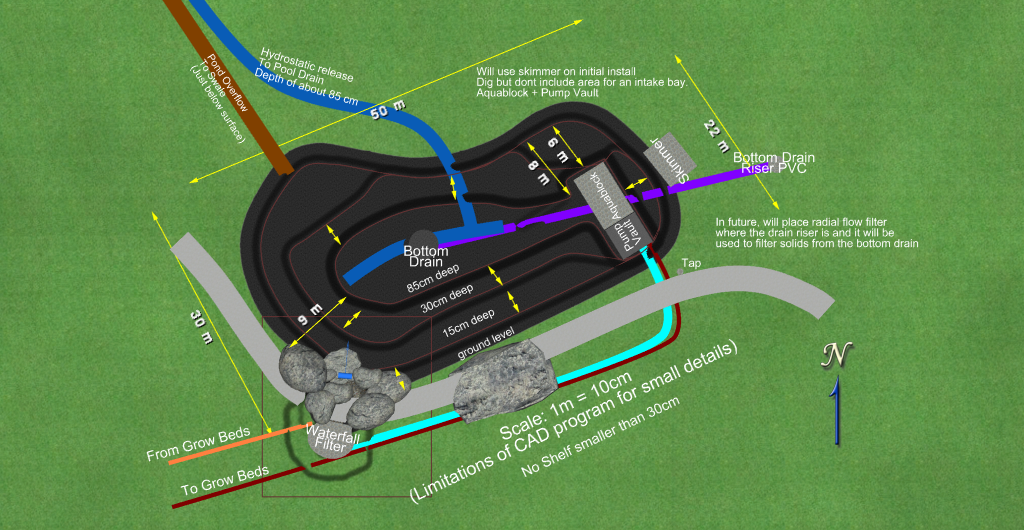
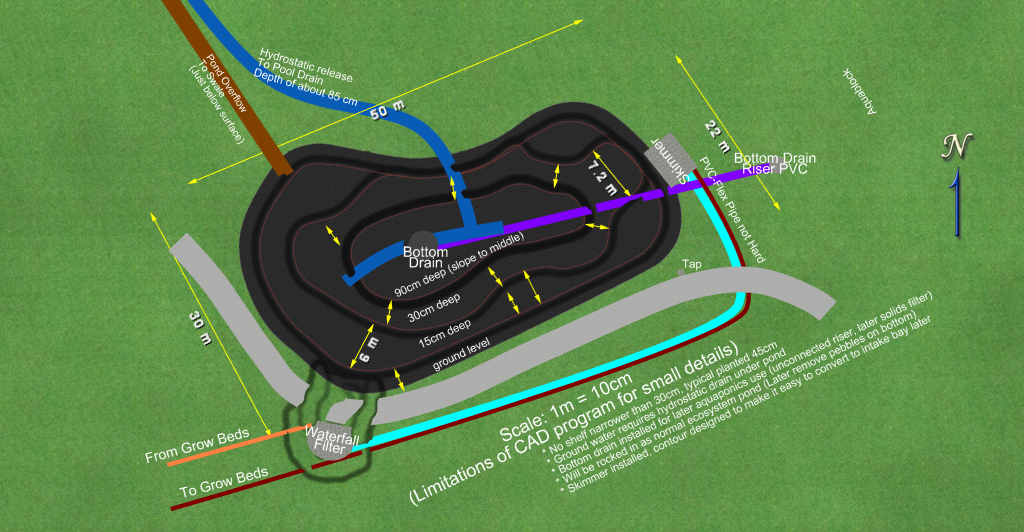
Added improved shelves design

diff --git a/pond/ponds.md b/pond/ponds.md
@@ -11,6 +11,7 @@ Over time I expect I will add many different sub-pages to this document.
 
 ![version_3/topdown.png](version_3/topdown.png)
 
+
 # Big question to answer early (Pond position)
 
 I have narrowed down to two main design options that have a big impact on the structure of the overall backyard. It is about where to place the retaining wall and pond. This decision needs to be made early, can't be changed later and has a big impact on everything else.
@@ -157,9 +158,12 @@ In contrast to koi builds, there appears to be a more recent movement of what I 
 
 ## Mehanical surface filtration
 
-My choice: Intake bay
+The most common option by far is installing a skimmer box and is on most pond builds I have seen.
 
-The most common option by far is installing skimmer box and is on most pond builds I have seen.
+My first choice would be an intake-bay because it reduces risk of killing animals in the pond, but also my initial thought is that they are simpler to clean/maintain evey week. However there are some significant complexities with installing a intake bay in my pond. As a result I am going to start with a typical skimmer box. 
+
+I also have an idea I plan to try to convert a skimmer box into a intake bay using a 3D printed adapter to replace the flapper that insteads draws the gravity fed intake from an aquablock under the rocks just in front of the skimmer. This may have some issues (like limited flow of water causing the pump to run dry), but I will give it a shot sometime after getting a working pond and see how it turns out.
+
 
 Options include:
 
@@ -171,9 +175,10 @@ Options include:
 	- Can suck in small animals and kill them (not great for ecosystem ponds with frogs, turtles etc)
 	
 * Intake bay (Seen only a few of these)
-	+ Look amazing, they looks very natural
+	+ Look amazing, they look very natural you cant see them at all
 	+ Regular maintainence (maybe weekly) uses a rake to take out debri instead of pulling out baskets (Yearly maybe cleaning out rocks?)
 	- Not seen a lot on these, I like the concept, do they work well I dont see much information on these after installed?
+	- Takes up a significant portion of the pond volume/area (Skimmers ar eusually installed on the side, so less liner required)
 	? Are they as effective as skimmer boxes? I assume the water flow is the same but no flapper so velocity of water lower
 	? Can probably install same water level maintainence in pump vault with hidden auto-water level topup using float valve + overflow / drain
 	
@@ -181,6 +186,9 @@ Options include:
 	In aquaponics usually they just cover the pond with a lid to prevent external debri getting in the first place. Not feasible in most ponds.
 	
 * Manual netting and rely on bottom drain (for people with nothing better to do)
+
+
+
 
 ## Mechanical bottom filtration
 
@@ -250,16 +258,62 @@ Key points here that I have been considering:
 	https://www.woodvalefishandlilyfarm.com.au/products/plants/water-plants/shade-tolerant-water-plants/
 
 
-## Pond bottom contour
-Tiered vs deep 
+## Pond bottom contour and shelves
+
+For an ecosystem pond we usually want to create a tiered set of shelves usually of different heights, based on planting zones. This is different for a koi or fish pond where often we want fairly steep walls and fewer shelves.
+
+When deciding on if you want to place shelves in a pond consider:
+* Aquatic plants require different depths of water, most prefer shallow water
+* Steeper walls have higher chance of collapse
+  * Shelves are often cheaper/simpler to construct than steep walled ponds because of this
+* Shelves provide locations for predatory birds to stand an stalk fish
+* Adding shelves reduces the volume of water in the pond (more temperature fluctuation etc)
+* Many insects and other wildlife require shallow and/or still water to thrive
+* Shelves are less effective for koi ponds that use a bottom drain as they often trap waste
+
+For these reasons, koi and fish ponds often dont have shelves and are steep walled but ecosystem ponds usually do. For my pond I plan to try using shelves. I have future plans to try different things to improve the issue of accumulated waste in the shelves but not to worry about to start with (regular cyclic suction/pushing unger-gravel grid).
 
 
-wall slope (not straight)
-https://www.gardenpondforum.com/threads/do-pond-walls-need-reinforcing.20670/
-I am assuming that you are referring to the use of just liner. In that case, i wold not recommend that any wall of any height be vertical. An angle of 15 - 20 degrees from the vertical will offer satisfactory protection from any structural collapse
-I would like to clarify and expand on this previous post of mine.
-This angle of slope will suffice providing pond depth does not exceed 4 feet. As depth increases this angle should also increase. OSHA stipulates that for depths up to 8 feet this angle should be at least 30 degrees from vertical.
-These aforementioned angles also assume that this excavation is in fairly compacted and undisturbed soil. All other soils will likely require a larger angle.
+When using shelves in a pond there are a few guidelines (that vary a bit depending on who you ask). Following is a list of things to consider (and more detail about specific depths etc that seems to vary between person below):
+
+* Shelve widths smaller than 30cm are difficult to seat rocks on, may collapse (depending on depth) and do not provide much space for planting
+* Shelves near waterfall need larger width to support the weight and size of large character boulders (45cm+ width)
+* Shelf widths should vary for a natural look, consistent widths look more formal
+* Often wider shelves at far end of pond for lots of planting and fewer/narrower shelves near approach to pond to get out of the way of seeing fish
+* Avoid sheer steep shelves to prevent wall collapse : https://www.gardenpondforum.com/threads/do-pond-walls-need-reinforcing.20670/
+  * "An angle of 15 - 20 degrees from the vertical will offer satisfactory protection from any structural collapse", "providing pond depth does not exceed 4 feet"
+* Avoid shelf depth changes larger than 30cm (12 ") to make rock selection easier: https://cepontzsons.com/pond-ledges/
+  * Usually a larger rock sits at the back of a shelf and rises above the level of the shelf above
+  * This creates lips on the shelves to hold back pebbles and prevent them falling further into the pond
+* Shelf depths should vary, a pond usually has shelves defining a few different planting "zones"
+  * Good guidelines: https://www.watersidenursery.co.uk/tips-advice/planting-the-pond-shelves-shelf-0-shelf-1-shelf-2/
+    * Shelf 0 : 13-15cm (5-6")
+    * Shelf 1 : 15-22cm (6-9")
+    * Shelf 2 : 23-44cm (10-17") OPTIONAL
+    * Shelf 3 : 75cm + (45" +)
+  * http://www.ozwatergardens.com.au/zone-map
+    * ZONE 1 : Pond floaters and drifters such as Duckweed.
+    * ZONE 2 : For pond edges or bog areas. eg. Tassel Rushes, Pennyworts, Sweet Flags, Irises and plants that like wet feet.
+    * ZONE 3 : 0-20cm plant depth. Suitable for marginal or bog plants like Water Irises, Milfoils and some grasses.
+    * ZONE 4 : 20-40cm plant depth. Ideal for smaller water plants such as Miniature Waterlilies, Water Poppies, Water Fringes and large marginal plants such as Rushes, Reeds and Sedges.
+    * ZONE 5 : 40cm or more in depth. Recommended for Waterlilies, Lotuses and underwater plants.
+  * Pond digger example: https://youtu.be/1Ak2wa28nE4?list=PLqM5Qn1K_DPwBIjJEMcKgzg8jPLjUUmG-
+    * Also same as pond digger : https://www.everything-ponds.com/water-garden-shelves-and-plants.html
+    * First Shelf : 20cm (8")
+    * Second shelf: 50cm (20")
+    * Bottom: 76cm (30")
+
+Given all the above variations, I decided that I would like to do the following:
+* Shelf 0 : 15 cm
+* Shelf 1 : 30 cm
+* Bottom  : 85? cm (As deep as feasible ideally, gives a 55cm wall which is large)
+* Around entire edge of pond is mostly 15cm but occasionally 30cm, meaning I can place rocks on shelf next to pond and not require stacking at the edge requiring a few 30 cm+ rocks but mostly 15cm with some smaller for variation
+* Minimal shelf width of 30cm, with 15-20cm rocks (even round) gives 10-15cm planting space
+* Shelf under waterfall >= 45cm
+* 2x planting pockets >= 45cm
+* Drop to 30cm at both approach points (not full bottom depth)
+
+
 
 ## Safety
 
